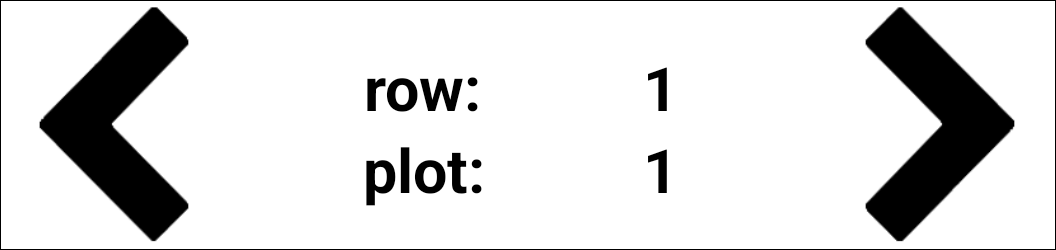
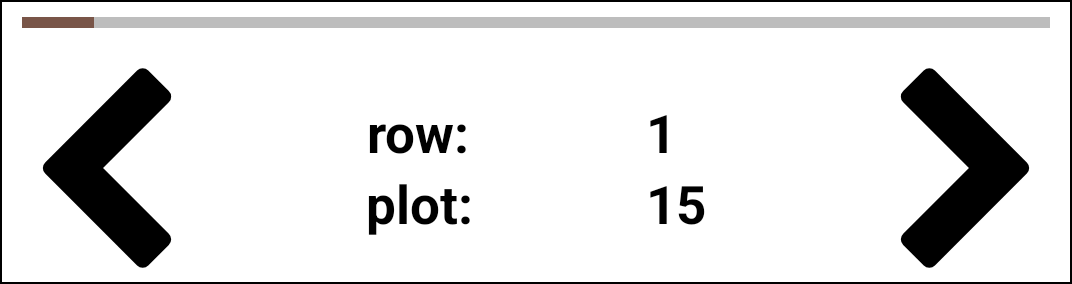
update collect.md

diff --git a/docs/collect.md b/docs/collect.md
@@ -29,8 +29,8 @@ Values turn from black to red once they have been saved to the internal database
 By default there are four icons in the top toolbar that provide additional functionality during data collection.
 
 <figure class="image">
-  <img class="screenshot" src="_static/images/collect/collect_toolbar_highlight_framed.png" width="350px"> 
-  <figcaption class="screenshot-caption"><i>Collect screen with the top toolbar highlighted</i></figcaption> 
+  <img class="screenshot" src="_static/images/collect/collect_top_toolbar_section.png" width="325px"> 
+  <figcaption class="screenshot-caption"><i>The Collect screen top toolbar</i></figcaption> 
 </figure>
 
 - <img class="icon" src="_static/icons/collect/magnify.png"> **Search** opens a dialog to search for a specific entry.
@@ -104,7 +104,8 @@ InfoBar prefixes can be replaced with symbols by toggling the "Hide InfoBar Pref
 </figure>
 
 The small, green arrows are used to move between the visible traits.
-Pressing the current trait will display a dialog of all visible traits.
+Dots at the bottom of the section show progress through the traits for the current entry.
+Pressing the current trait name will display a dialog of all visible traits.
 Selecting a different trait will navigate the app to that trait.
 Pressing "Edit" will navigate to the [Traits](traits.md) screen where you can modify which traits are currently active or create new traits.
 
@@ -121,7 +122,8 @@ Pressing "Edit" will navigate to the [Traits](traits.md) screen where you can mo
 </figure>
 
 The large, black arrows navigate between different entries.
-Pressing and holding these arrows will continuously scroll.
+The bar at the top of the section shows progress through all entries in the field.
+Pressing and holding the an arrow will continuously scroll through the entries.
 The longer the arrows are pressed, the faster the scrolling becomes.
 
 #### Data input
